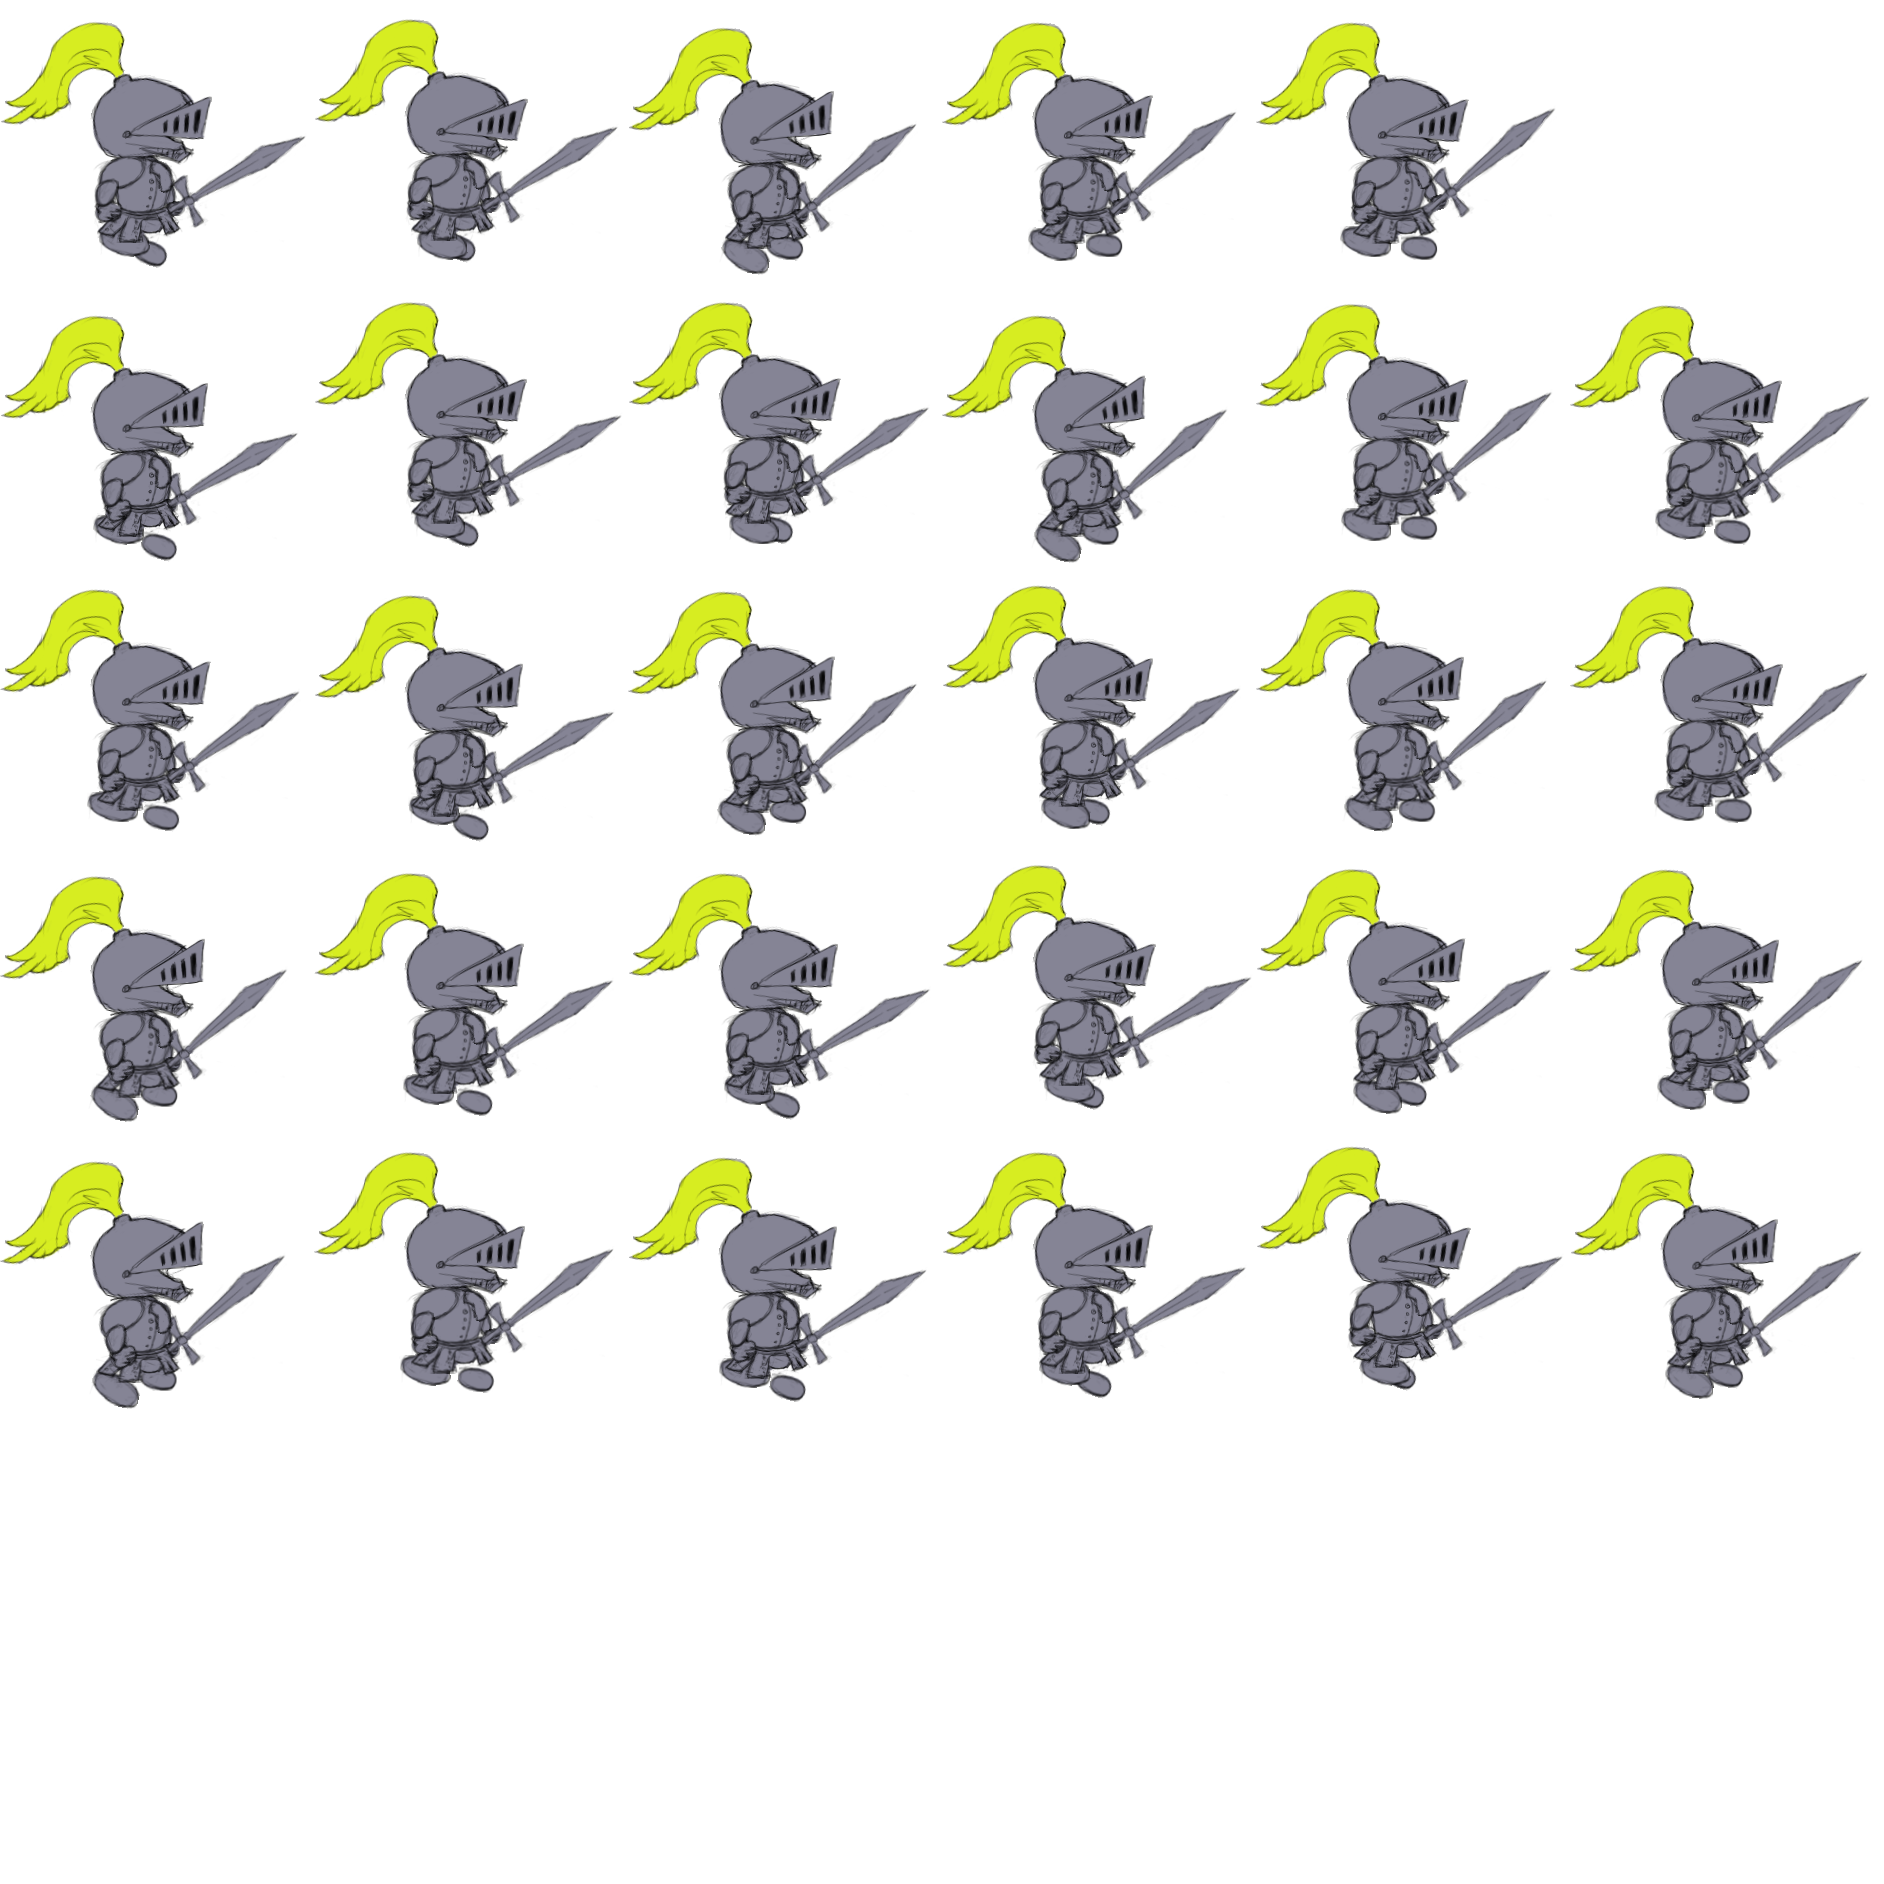
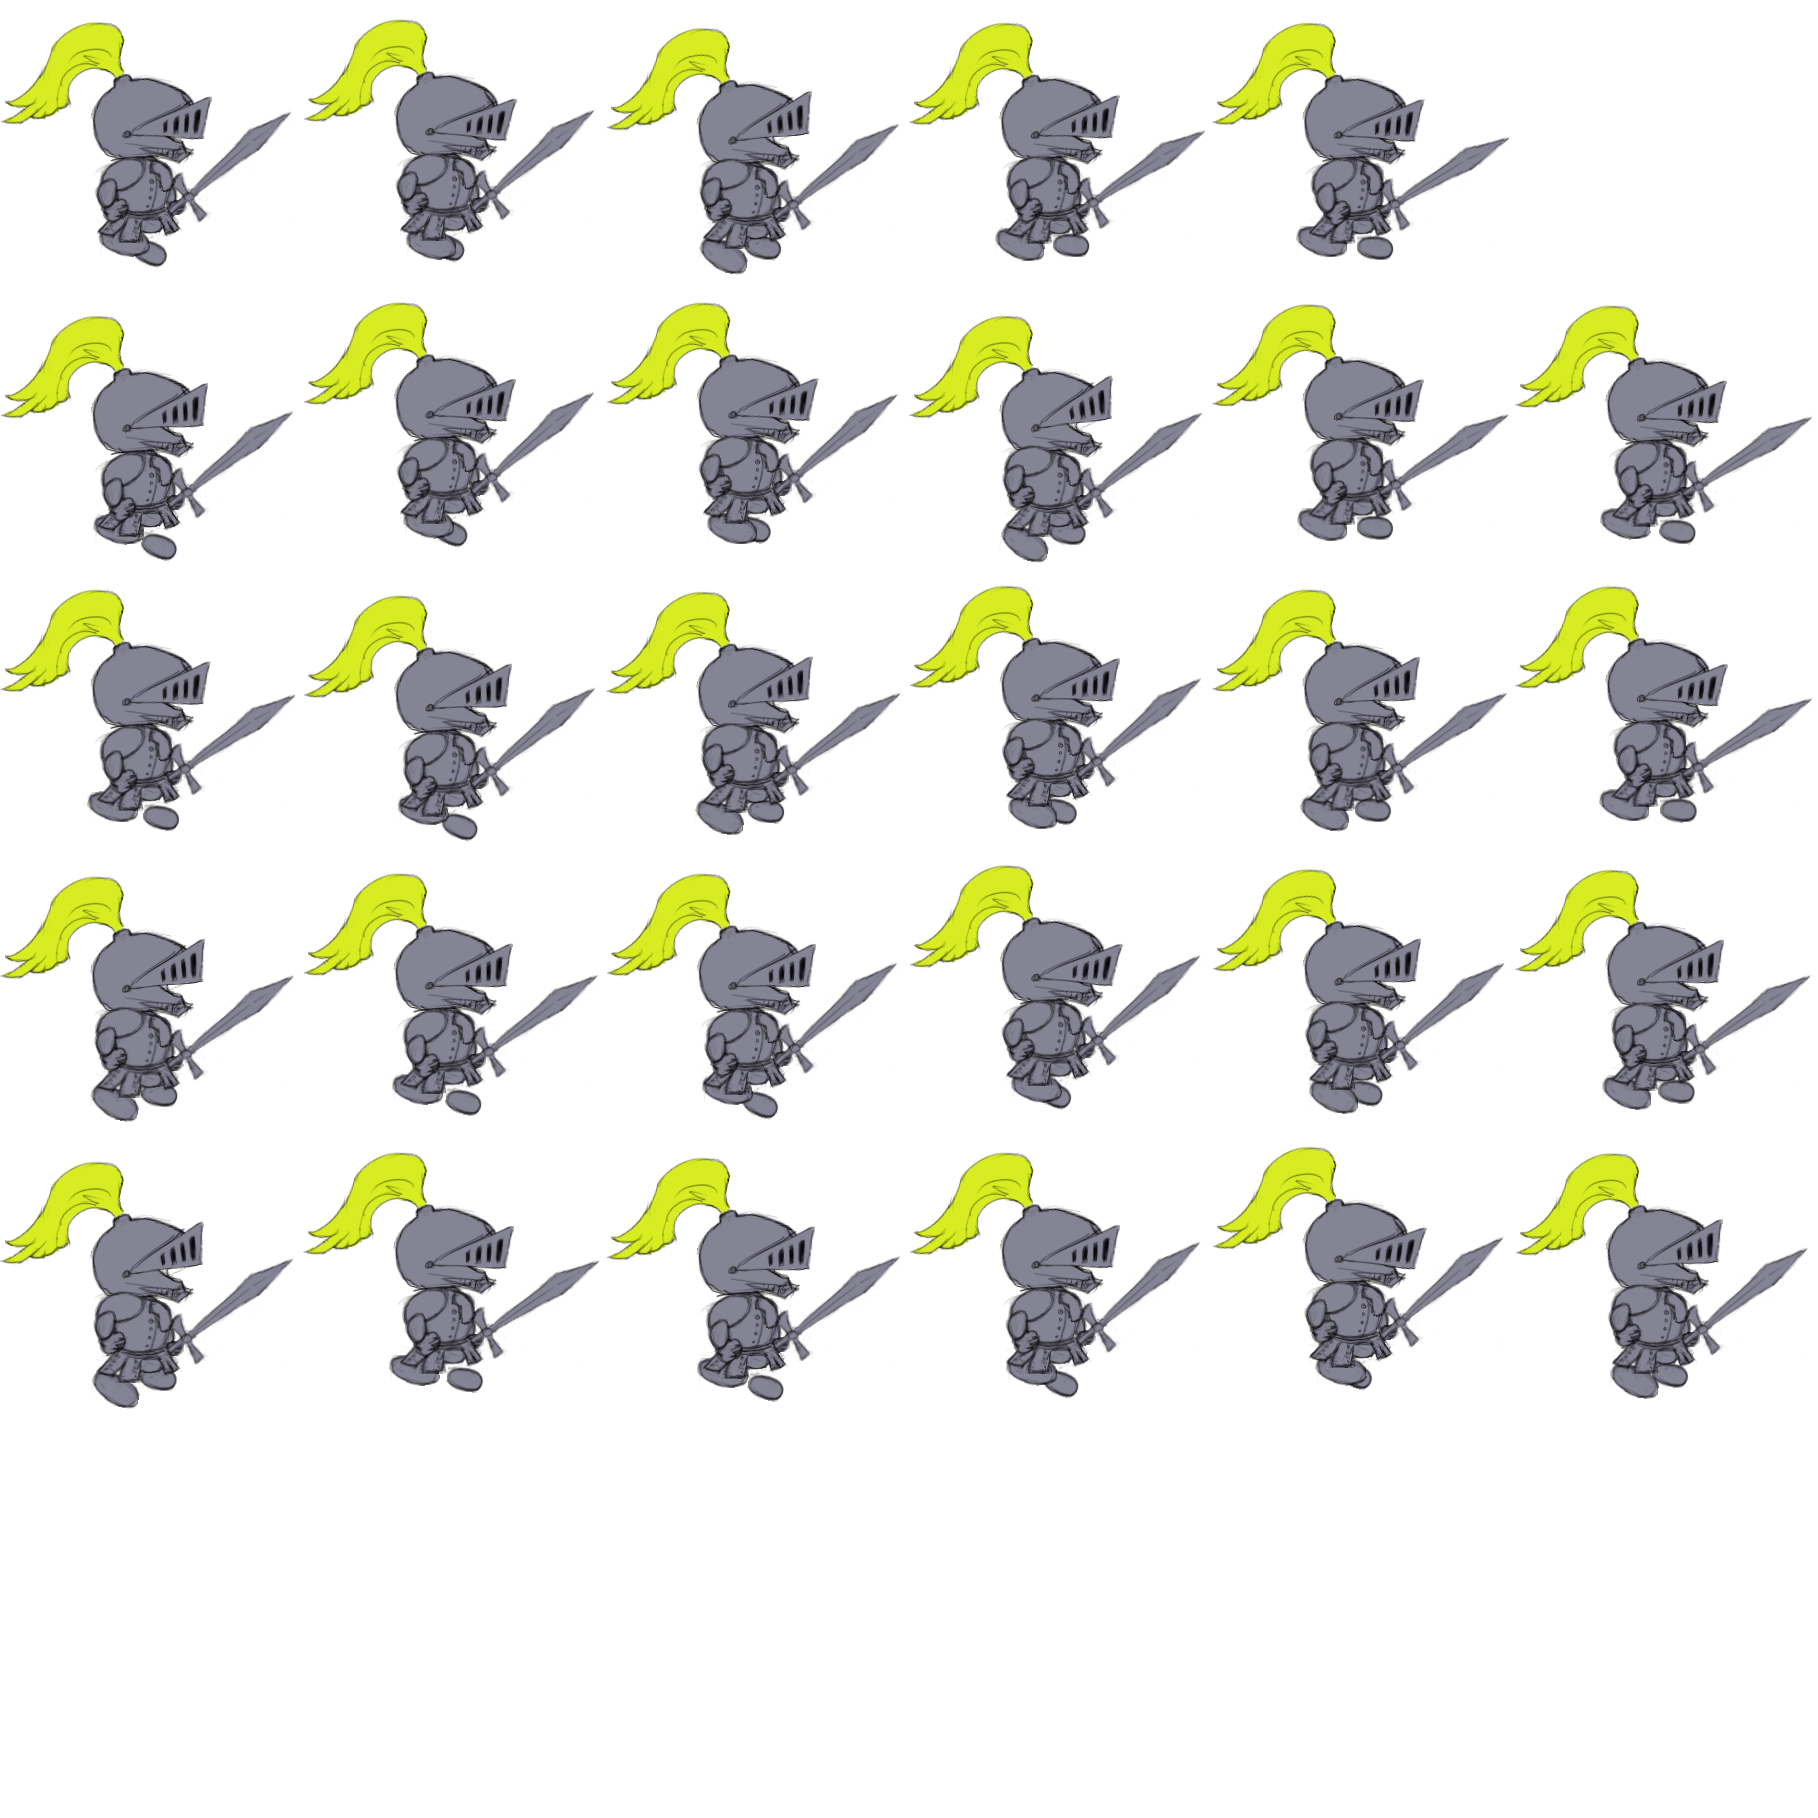
hero animation improvement

Changed region(s): [[0.0, 0.0, 1.0, 0.7701]]

diff --git a/game/hero.js b/game/hero.js
@@ -9,14 +9,24 @@
     Hero.prototype.initialize = function(){        
         
         var sprite_sheet = [{
-                frame: {width:314,height:282},
+                frame: {width:303,height:282},
                 image: ContentManager.images.hero_run,
-                frames: '[{"index":0,"x":0,"y":1128,"width":314,"height":282},{"index":1,"x":0,"y":846,"width":314,"height":282},{"index":2,"x":628,"y":564,"width":314,"height":282},{"index":3,"x":1256,"y":564,"width":314,"height":282},{"index":4,"x":1570,"y":846,"width":314,"height":282},{"index":5,"x":942,"y":0,"width":314,"height":282},{"index":6,"x":1256,"y":282,"width":314,"height":282},{"index":7,"x":1570,"y":564,"width":314,"height":282},{"index":8,"x":1256,"y":0,"width":314,"height":282},{"index":9,"x":1570,"y":282,"width":314,"height":282},{"index":10,"x":314,"y":1128,"width":314,"height":282},{"index":11,"x":0,"y":564,"width":314,"height":282},{"index":12,"x":314,"y":846,"width":314,"height":282},{"index":13,"x":628,"y":1128,"width":314,"height":282},{"index":14,"x":0,"y":282,"width":314,"height":282},{"index":15,"x":314,"y":564,"width":314,"height":282},{"index":16,"x":628,"y":846,"width":314,"height":282},{"index":17,"x":942,"y":1128,"width":314,"height":282},{"index":18,"x":0,"y":0,"width":314,"height":282},{"index":19,"x":314,"y":282,"width":314,"height":282},{"index":20,"x":942,"y":846,"width":314,"height":282},{"index":21,"x":1256,"y":1128,"width":314,"height":282},{"index":22,"x":314,"y":0,"width":314,"height":282},{"index":23,"x":628,"y":282,"width":314,"height":282},{"index":24,"x":942,"y":564,"width":314,"height":282},{"index":25,"x":1256,"y":846,"width":314,"height":282},{"index":26,"x":1570,"y":1128,"width":314,"height":282},{"index":27,"x":628,"y":0,"width":314,"height":282},{"index":28,"x":942,"y":282,"width":314,"height":282}]',
+                frames: '[{"index":0,"x":0,"y":1128,"width":303,"height":282},{"index":1,"x":0,"y":846,"width":303,"height":282},{"index":2,"x":606,"y":564,"width":303,"height":282},{"index":3,"x":1212,"y":564,"width":303,"height":282},{"index":4,"x":1515,"y":846,"width":303,"height":282},{"index":5,"x":909,"y":0,"width":303,"height":282},{"index":6,"x":1212,"y":282,"width":303,"height":282},{"index":7,"x":1515,"y":564,"width":303,"height":282},{"index":8,"x":1212,"y":0,"width":303,"height":282},{"index":9,"x":1515,"y":282,"width":303,"height":282},{"index":10,"x":303,"y":1128,"width":303,"height":282},{"index":11,"x":0,"y":564,"width":303,"height":282},{"index":12,"x":303,"y":846,"width":303,"height":282},{"index":13,"x":606,"y":1128,"width":303,"height":282},{"index":14,"x":0,"y":282,"width":303,"height":282},{"index":15,"x":303,"y":564,"width":303,"height":282},{"index":16,"x":606,"y":846,"width":303,"height":282},{"index":17,"x":909,"y":1128,"width":303,"height":282},{"index":18,"x":0,"y":0,"width":303,"height":282},{"index":19,"x":303,"y":282,"width":303,"height":282},{"index":20,"x":909,"y":846,"width":303,"height":282},{"index":21,"x":1212,"y":1128,"width":303,"height":282},{"index":22,"x":303,"y":0,"width":303,"height":282},{"index":23,"x":606,"y":282,"width":303,"height":282},{"index":24,"x":909,"y":564,"width":303,"height":282},{"index":25,"x":1212,"y":846,"width":303,"height":282},{"index":26,"x":1515,"y":1128,"width":303,"height":282},{"index":27,"x":606,"y":0,"width":303,"height":282},{"index":28,"x":909,"y":282,"width":303,"height":282}]',
                 animations: {
                     run: {start: 0, end: 28, loop: true, duration: 500}
                 }
                 , reg: {x: 0.5, y: 0.5, width: 1.0, height: 1.0}
-            }];
+            },
+            {
+                frame: {width:303,height:282},
+                image: ContentManager.images.hero_run_left,
+                frames: '[{"index":0,"x":1515,"y":1128,"width":303,"height":282},{"index":1,"x":1515,"y":846,"width":303,"height":282},{"index":2,"x":909,"y":564,"width":303,"height":282},{"index":3,"x":303,"y":564,"width":303,"height":282},{"index":4,"x":0,"y":846,"width":303,"height":282},{"index":5,"x":606,"y":0,"width":303,"height":282},{"index":6,"x":303,"y":282,"width":303,"height":282},{"index":7,"x":0,"y":564,"width":303,"height":282},{"index":8,"x":303,"y":0,"width":303,"height":282},{"index":9,"x":0,"y":282,"width":303,"height":282},{"index":10,"x":1212,"y":1128,"width":303,"height":282},{"index":11,"x":1515,"y":564,"width":303,"height":282},{"index":12,"x":1212,"y":846,"width":303,"height":282},{"index":13,"x":909,"y":1128,"width":303,"height":282},{"index":14,"x":1515,"y":282,"width":303,"height":282},{"index":15,"x":1212,"y":564,"width":303,"height":282},{"index":16,"x":909,"y":846,"width":303,"height":282},{"index":17,"x":606,"y":1128,"width":303,"height":282},{"index":18,"x":1515,"y":0,"width":303,"height":282},{"index":19,"x":1212,"y":282,"width":303,"height":282},{"index":20,"x":606,"y":846,"width":303,"height":282},{"index":21,"x":303,"y":1128,"width":303,"height":282},{"index":22,"x":1212,"y":0,"width":303,"height":282},{"index":23,"x":909,"y":282,"width":303,"height":282},{"index":24,"x":606,"y":564,"width":303,"height":282},{"index":25,"x":303,"y":846,"width":303,"height":282},{"index":26,"x":0,"y":1128,"width":303,"height":282},{"index":27,"x":909,"y":0,"width":303,"height":282},{"index":28,"x":606,"y":282,"width":303,"height":282}]',
+                animations: {
+                    run_left: {start: 0, end: 28, loop: true, duration: 500}
+                }
+                , reg: {x: 0.5, y: 0.5, width: 1.0, height: 1.0}
+            }
+        ];
 
         this.animation_initialize(sprite_sheet);
         

diff --git a/lib/animation_atlas.js b/lib/animation_atlas.js
@@ -34,17 +34,18 @@ AnimationAtlas.prototype.initialize = function(sprite_sheet) {
         this.frame = sprite_sheet[0].frame;
 
         this.animations = [];
-        this.frames = [];
+        this._frames = [];
         this.images = [];
         this.regs = [];
 
+        this.frames = [];
 
 
 
         for (var i = 0; i < sprite_sheet.length; i++) {
             var config = sprite_sheet[i];
             this.animations.push(config.animations);
-            this.frames.push( JSON.parse(config.frames) );
+            this._frames.push( JSON.parse(config.frames) );
             this.images.push(config.image.image);
             this.regs.push(config.reg);
 
@@ -97,7 +98,7 @@ AnimationAtlas.prototype.play = function(anime_name, start_at_begining) {
             // lets set 
             this.current_animation = animation[anime_name];
             this.image = this.images[i];
-            this.frames = this.frames[i];
+            this.frames = this._frames[i];
 
            //this.frame_width = Math.floor(this.image.width / this.frames.x);
            // this.frame_height = Math.floor(this.image.height / this.frames.y);

diff --git a/game/ui/screens/game_screen.js b/game/ui/screens/game_screen.js
@@ -15,8 +15,8 @@
     
         this.hero = new Hero();
         this.hero.set_position(300,250);
-        this.hero.play('run');
-        this.hero.set_scale(0.5,0.5);
+        this.hero.play('run_left');
+      //  this.hero.set_scale(0.5,0.5);
         this.add_child(this.hero);
         
         var that = this;

diff --git a/assets/assets.js b/assets/assets.js
@@ -13,6 +13,7 @@ Game.prototype.load_assets = function() {
     
     
     ContentManager.add_image('hero_run', 'assets/images/hero_run.png');
+    ContentManager.add_image('hero_run_left', 'assets/images/hero_run_left.png');
 
     ////////////////////////////////////////////////////////////////////////
 

diff --git a/lib/config.js b/lib/config.js
@@ -24,7 +24,7 @@
     
     Config.height_in_tiles = 48; // 48;
     Config.width_in_tiles = 80; // 80;
-    Config.debug = false;
+    Config.debug = true;
     Config.slow_motion_factor = 1;
     
     Config.set_screen_size = function(width,height){
